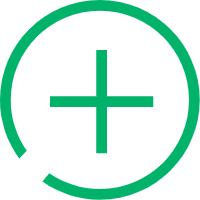
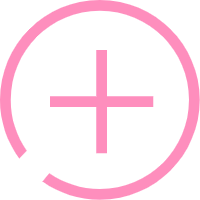
chore(fe): 主题色调整 + 登录页 UI 重构

Changed region(s): [[0.0, 0.0, 1.0, 1.0], [0.24, 0.24, 0.78, 0.78]]

diff --git a/fe/src/components/account-form/foundation/index.tsx b/fe/src/components/account-form/foundation/index.tsx
@@ -7,6 +7,7 @@ import { isNil } from 'lodash-es';
 import { AtForm, AtInput } from 'taro-ui';
 import { ListItem } from '@/components';
 import { useTypeListStore } from '@/store';
+import { formatNumber, transToNumber } from '@/utils/base';
 import { ACCOUNT_MODE } from '@/utils/constants';
 import styles from './index.module.scss';
 
@@ -175,6 +176,18 @@ export default forwardRef<FormRef, Props>((props, ref) => {
                 name='account'
                 value={amount}
                 onChange={(v: string) => setAmount(v)}
+                onBlur={() => {
+                    const v = transToNumber(amount);
+                    // 保留最多 4 位
+                    setTimeout(() => {
+                        setAmount(
+                            formatNumber(v, {
+                                precision: 4,
+                                isStrict: false,
+                            }),
+                        );
+                    });
+                }}
                 title='金额'
                 type='digit'
                 placeholder='请输入金额'

diff --git a/fe/src/pages/login/index.tsx b/fe/src/pages/login/index.tsx
@@ -34,12 +34,12 @@ export default function () {
     };
     return (
         <View className={`${styles.wrapper} h-full flex flex-col items-center relative`}>
-            <Image
+            {/* <Image
                 className={styles.logo}
                 src='https://gitee.com/karmiy/static/raw/master/weapp-accounts/imgs/kirby-logo.png'
-            />
-            <Text className={styles.title}>卡比记账</Text>
-            <Text className={styles.desc}>记账一键通，让统计更便捷</Text>
+            /> */}
+            {/* <Text className={styles.title}>卡比记账</Text> */}
+            {/* <Text className={styles.desc}>记账一键通，让统计更便捷</Text> */}
             <AtButton type='primary' className={styles.loginBtn} onClick={handleLogin}>
                 微信一键登录
             </AtButton>

diff --git a/fe/src/pages/detail/components/detail-item/index.tsx b/fe/src/pages/detail/components/detail-item/index.tsx
@@ -69,9 +69,7 @@ export default function (props: Props) {
                                     +{formatNumber(amount)}
                                 </Text>
                             ) : (
-                                <Text className={`${styles.account} text-danger`}>
-                                    -{formatNumber(amount)}
-                                </Text>
+                                <Text className={`${styles.account}`}>-{formatNumber(amount)}</Text>
                             )}
                             <AtIcon
                                 className={`${styles.arrow} ml-8`}

diff --git a/fe/src/app.config.ts b/fe/src/app.config.ts
@@ -22,14 +22,14 @@ export default defineAppConfig({
             },
         ],
         color: '#3232332',
-        selectedColor: '#00B26A',
+        selectedColor: '#fe8ebd',
         backgroundColor: '#fff',
         borderStyle: 'black',
     },
     window: {
         backgroundTextStyle: 'light',
-        // backgroundColor: '#00B26A',
-        navigationBarBackgroundColor: '#00B26A',
+        // backgroundColor: '#fe8ebd',
+        navigationBarBackgroundColor: '#fe8ebd',
         navigationBarTitleText: '卡比记账',
         navigationBarTextStyle: 'white',
     },

diff --git a/fe/src/utils/base.ts b/fe/src/utils/base.ts
@@ -69,3 +69,18 @@ export function asyncWrapper<T>(promise: Promise<T>) {
  * @param duration 时长，默认 1s
  */
 export const sleep = (duration = 1000) => new Promise(r => setTimeout(r, duration));
+
+/**
+ * @description 安全转换为 number
+ * @param v
+ * @param fallback
+ * @returns
+ */
+export const transToNumber = (v?: string, fallback = 0) => {
+    if (isNil(v)) return fallback;
+
+    const value = Number(v);
+    if (Number.isNaN(value)) return fallback;
+
+    return value;
+};

diff --git a/fe/src/pages/login/index.module.scss b/fe/src/pages/login/index.module.scss
@@ -2,6 +2,9 @@
 
 .wrapper {
     color: $text-color-primary;
+    background: url('https://gitee.com/karmiy/static/raw/master/weapp-accounts/imgs/kirby-2.png') no-repeat;
+    background-position: center 80%;
+    background-size: cover;
 
     .logo {
         width: px(100);
@@ -23,7 +26,7 @@
 
     .loginBtn {
         position: absolute;
-        bottom: px(100);
+        bottom: px(80);
         left: px((375 - 300) / 2);
         width: px(300);
     }

diff --git a/fe/src/services/requests/url.ts b/fe/src/services/requests/url.ts
@@ -2,7 +2,8 @@ export const getBaseUrl = (url: string) => {
     const BASE_URL =
         process.env.NODE_ENV === 'development'
             ? 'http://192.168.2.243:7001'
-            : 'http://1.13.252.193:7001';
+            : 'https://81.69.219.242';
+    // : 'http://1.13.252.193:7001';
     // process.env.NODE_ENV === 'development'
     return BASE_URL + url;
 };

diff --git a/fe/src/custom-theme.scss b/fe/src/custom-theme.scss
@@ -1,7 +1,7 @@
 /* Custom Theme */
-$color-brand: #00b26a;
-$color-brand-light: #40c58f;
-$color-brand-dark: #008e55;
+$color-brand: #fe8ebd;
+$color-brand-light: #feaace;
+$color-brand-dark: #cb7297;
 
 /* 引入 Taro UI 默认样式 */
 @import "~taro-ui/dist/style/index.scss";

diff --git a/fe/.taro-plugin-tailwind/h5.config.js b/fe/.taro-plugin-tailwind/h5.config.js
@@ -35,7 +35,7 @@ module.exports = {
         extend: {
             colors: {
                 'primary': {
-                    DEFAULT: '#00b26a',
+                    DEFAULT: '#fe8ebd',
                 },
                 'danger': {
                     DEFAULT: '#F56C6C',

diff --git a/fe/.taro-plugin-tailwind/mini.config.js b/fe/.taro-plugin-tailwind/mini.config.js
@@ -63,7 +63,7 @@ module.exports = {
         extend: {
             colors: {
                 'primary': {
-                    DEFAULT: '#00b26a',
+                    DEFAULT: '#fe8ebd',
                 },
                 'danger': {
                     DEFAULT: '#F56C6C',

diff --git a/fe/src/styles/var.scss b/fe/src/styles/var.scss
@@ -1,4 +1,4 @@
-$color-primary: #00b26a;
+$color-primary: #fe8ebd; // 254 142 189 => 1 113 66
 $color-primary-5: fade-out($color-primary, 0.5) !default;
 $color-primary-7: fade-out($color-primary, 0.7) !default;
 $color-primary-9: fade-out($color-primary, 0.9) !default;
